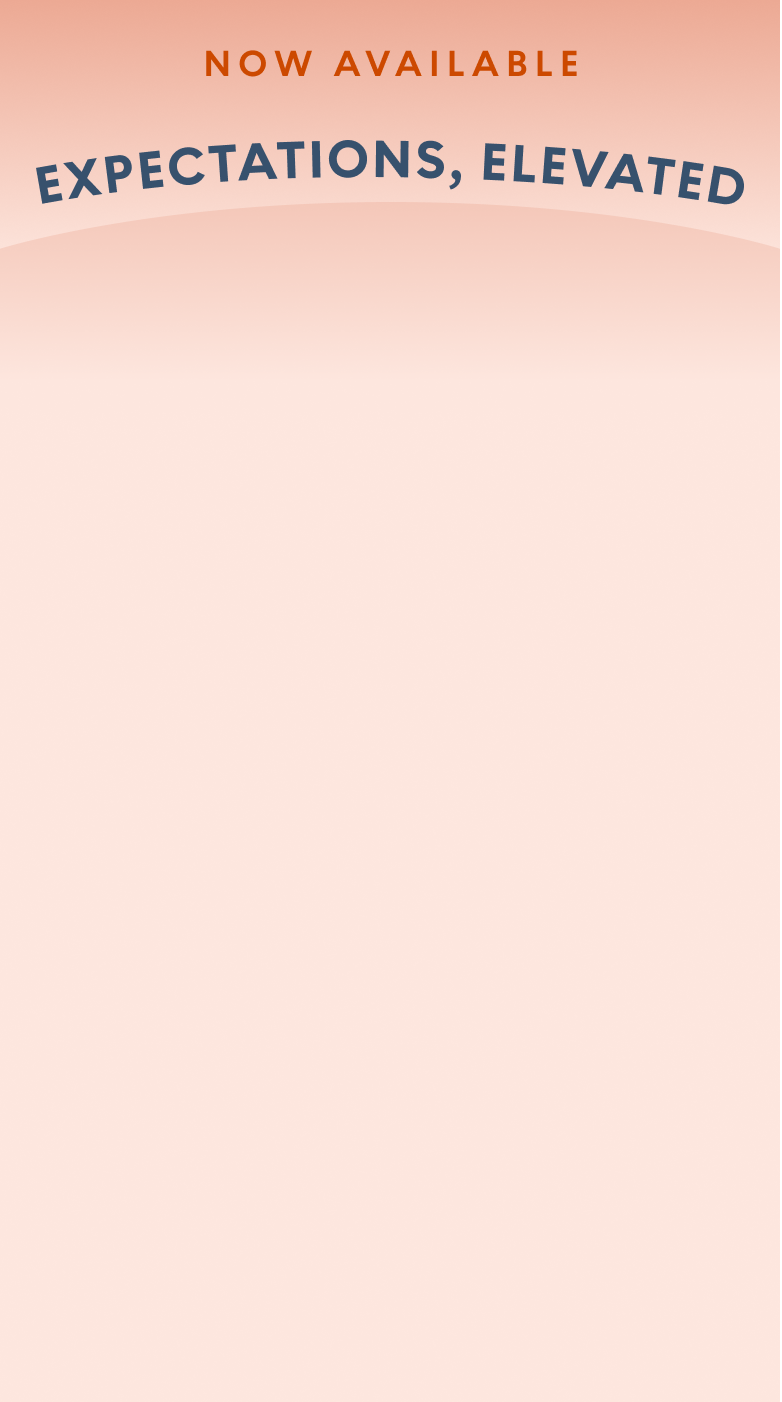
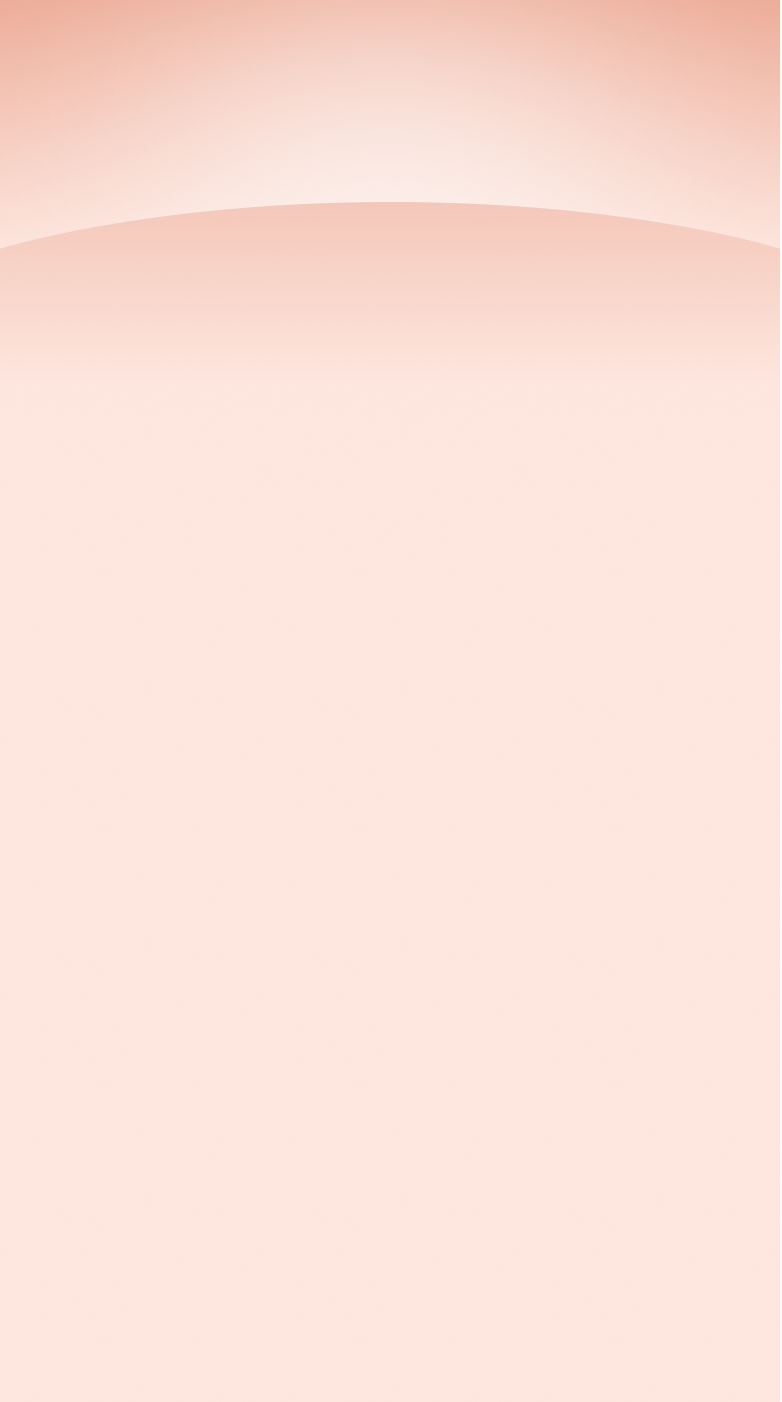
wip

Changed region(s): [[0.0307, 0.0, 0.9514, 0.1534]]

diff --git a/components/icons/headline.tsx b/components/icons/headline.tsx
@@ -1,0 +1,39 @@
+export const Headline = ({
+  className,
+  fill = "currentColor",
+}: {
+  className?: string;
+  fill?: string;
+}) => {
+  return (
+    <svg
+      className={className}
+      xmlns="http://www.w3.org/2000/svg"
+      viewBox="0 0 681.81 54.47"
+      fill={fill}
+      aria-hidden
+    >
+      <path d="M4.48,52.99L0,22.52l17.02-2.5.89,6.05-10.45,1.54.88,5.96,9.92-1.46.89,6.05-9.92,1.46.93,6.35,10.66-1.57.89,6.05-17.24,2.53Z" />
+      <path d="M30.65,49.18l8.71-16.55-12.52-14.01,7.81-1,7.73,8.77,5.23-10.42,7.85-1-8.6,16.71,12.63,13.82-7.86,1-7.8-8.63-5.42,10.32-7.77.99Z" />
+      <path d="M69.39,44.38l-3.32-30.62,11.68-1.27c4.72-.51,10.17,2.39,10.88,8.96.71,6.56-3.99,10.57-8.71,11.08l-5.12.55,1.15,10.59-6.56.71ZM74.18,27.35l4.07-.44c2.76-.3,4.03-2.38,3.78-4.75-.26-2.36-1.95-4.12-4.71-3.83l-4.07.44.93,8.57Z" />
+      <path d="M101.88,40.98l-2.82-30.67,17.13-1.58.56,6.09-10.52.97.55,6,9.99-.92.56,6.09-9.99.92.59,6.4,10.74-.99.56,6.09-17.35,1.6Z" />
+      <path d="M151.58,15.91c-1.82-2.55-4.4-3.95-8-3.68-5.7.43-9.15,5.1-8.75,10.41.4,5.31,4.5,9.41,10.2,8.99,3.6-.27,5.94-2.03,7.36-4.83l5.87,2.91c-2.47,4.73-6.88,7.71-12.76,8.15-9.13.68-16.61-5.59-17.3-14.72-.68-9.12,5.78-16.45,14.91-17.13,5.88-.44,10.68,1.85,13.83,6.11l-5.36,3.8Z" />
+      <path d="M175.33,35.29l-1.44-24.64-8.21.48-.36-6.11,23.02-1.34.36,6.1-8.21.48,1.44,24.64-6.59.38Z" />
+      <path d="M194.47,34.17l11.87-31.34,6.86-.3,14.51,30.2-7.3.31-2.85-5.87-13.45.58-2.29,6.09-7.34.32ZM206,21.83l9.14-.39-4.99-10.53h-.09s-4.07,10.92-4.07,10.92Z" />
+      <path d="M240.37,32.39l-.71-24.68-8.23.24-.18-6.11,23.05-.66.18,6.11-8.23.24.71,24.68-6.6.19Z" />
+      <path d="M265.36,31.78l-.54-30.79,6.64-.12.54,30.79-6.64.12Z" />
+      <path d="M283.12,16.05C283.07,6.9,290.04.04,299.14,0c9.15-.04,16.18,6.74,16.22,15.9.04,9.15-6.92,16.01-16.07,16.05-9.11.04-16.14-6.74-16.18-15.9ZM308.73,15.93c-.03-5.32-3.83-9.71-9.55-9.68-5.68.03-9.44,4.45-9.41,9.77.03,5.32,3.83,9.71,9.51,9.68,5.72-.03,9.48-4.44,9.46-9.77Z" />
+      <path d="M326.66,31.35l.29-30.8,6.07.06,14.47,19.24h.04s.18-19.1.18-19.1l6.64.06-.29,30.8-6.07-.06-14.43-19.24h-.09s-.18,19.1-.18,19.1l-6.64-.06Z" />
+      <path d="M378.15,13.19c4.68,1.33,10.32,3.12,10.17,10.07-.12,5.59-4.82,9.49-11.6,9.35-4.84-.1-8.45-1.98-11.37-5.48l4.67-4.17c1.8,2.11,3.71,3.47,6.83,3.53,3.3.07,4.78-1.31,4.82-3.2.05-2.24-2.93-3.01-6.34-4.05-4.46-1.33-9.03-3.54-8.9-9.78.11-5.32,4.5-8.93,10.71-8.79,4.88.1,7.84,1.93,10.63,4.85l-4.66,4.04c-1.46-1.57-3.46-2.71-6.15-2.77-2.46-.05-3.85.97-3.89,2.69-.04,2.02,2.23,2.91,5.07,3.72Z" />
+      <path d="M398.65,29.24c.06-2.11,1.83-3.77,3.94-3.71,2.29.07,4.21,2.06,4.11,5.23-.19,6.42-3.68,9.58-8.66,11.28l-1.27-3.08c2.89-1.06,5.06-2.97,5.12-4.73.01-.48-.15-.84-.67-1.12-1.47-.84-2.62-2.02-2.57-3.86Z" />
+      <path d="M433.76,33.8l1.36-30.77,17.19.76-.27,6.11-10.55-.47-.27,6.02,10.02.44-.27,6.11-10.02-.44-.28,6.42,10.77.48-.27,6.11-17.41-.77Z" />
+      <path d="M463.08,35.16l1.69-30.76,6.63.37-1.36,24.65,11.07.61-.34,6.11-17.71-.97Z" />
+      <path d="M491.61,36.81l2.05-30.73,17.17,1.14-.41,6.1-10.54-.7-.4,6.02,10.01.67-.41,6.1-10.01-.67-.43,6.41,10.76.72-.41,6.1-17.39-1.16Z" />
+      <path d="M529.85,39.54l-9.59-31.68,7.15.58,6.5,22.33h.09s9.99-21,9.99-21l7.15.58-14.49,29.73-6.8-.55Z" />
+      <path d="M551.9,41.32l16.08-29.4,6.83.66,10.2,31.93-7.27-.7-2.01-6.21-13.4-1.29-3.11,5.71-7.32-.7ZM565.03,30.69l9.11.87-3.48-11.12h-.09s-5.54,10.25-5.54,10.25Z" />
+      <path d="M597.57,45.91l2.73-24.53-8.18-.91.68-6.08,22.92,2.55-.68,6.08-8.18-.91-2.73,24.53-6.56-.73Z" />
+      <path d="M622.4,48.77l3.87-30.56,17.07,2.16-.77,6.07-10.48-1.33-.76,5.98,9.95,1.26-.77,6.07-9.95-1.26-.81,6.37,10.7,1.35-.77,6.07-17.29-2.19Z" />
+      <path d="M651.46,52.52l4.42-30.48,12.1,1.76c9.01,1.31,14.94,8.57,13.64,17.54-1.3,8.97-9.05,14.25-18.06,12.94l-12.1-1.76ZM658.94,47.29l5.49.8c5.66.82,9.87-2.44,10.63-7.7.76-5.27-2.34-9.59-8-10.41l-5.49-.8-2.63,18.11Z" />
+    </svg>
+  );
+};

diff --git a/app/page.tsx b/app/page.tsx
@@ -2,12 +2,18 @@ import { HomeData } from "@/content/home";
 import Image from "next/image";
 import BGImage from "@/assets/images/bg.svg";
 import BGImageMobile from "@/assets/images/bg-mobile.svg";
+import { Headline } from "@/components/icons/headline";
+import { cn } from "@/lib/utils";
 
 export default function Home() {
   return (
-    <div className="bg-deep-orange-light flex-1 text-center py-8 pt-[34.821428571%] md:pt-[24%] xl:pt-64 relative">
+    <div className="bg-deep-orange-light flex-1 text-center py-8 pt-[34.821428571%]  md:pt-64 relative">
+      <p className={cn(
+        "absolute top-4 md:top-10 left-0 w-full text-center z-50 text-deep-orange font-bold text-xl md:text-3xl tracking-widest"
+      )}>NOW AVAILABLE</p>
       <Image src={BGImage} alt="" fill className="object-cover hidden md:block" />
       <Image src={BGImageMobile} alt="" className="block absolute top-0 left-0 w-full md:hidden" />
+      <Headline className="absolute top-[7.5%] sm:top-[10%] md:top-[14.5%] left-0 right-0 w-full max-w-[850px] mx-auto z-40 text-navy px-4" />
       <HomeData />
     </div>
   );

diff --git a/content/starting-qivigy.tsx b/content/starting-qivigy.tsx
@@ -93,7 +93,7 @@ export const StartingQivigyDosingProductInformationData = () => {
 export const StartingQivigyDosingCalculator = () => {
   return (
     <>
-      <h2 id="dosing-calculator">Dosing calculator</h2>
+      <h2 id="dosing-calculator">Dosing calculator TKTK</h2>
     </>
   );
 };
